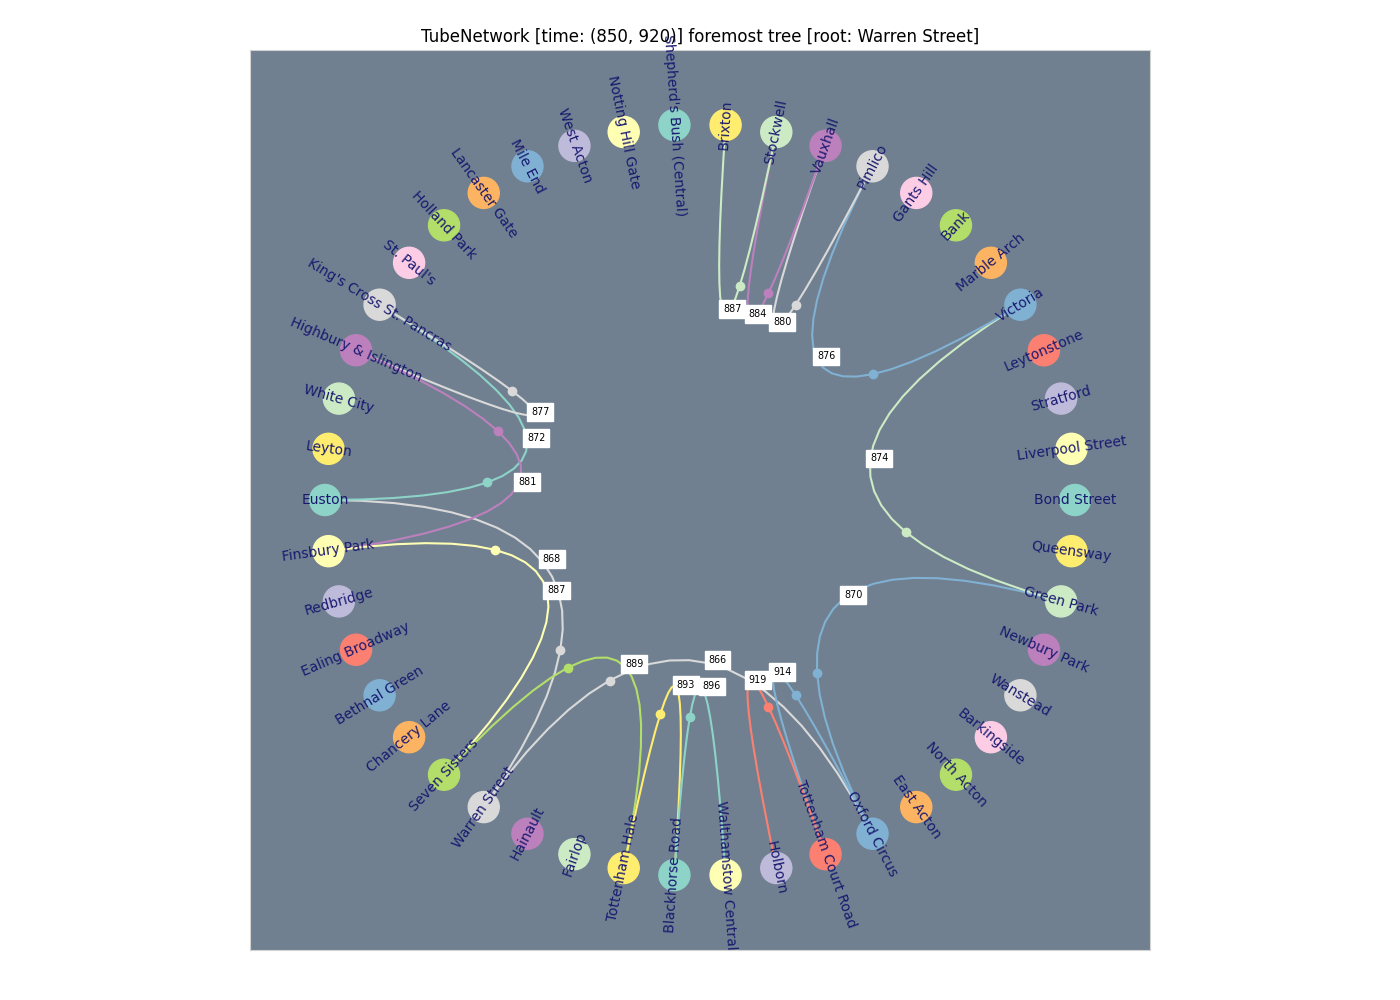
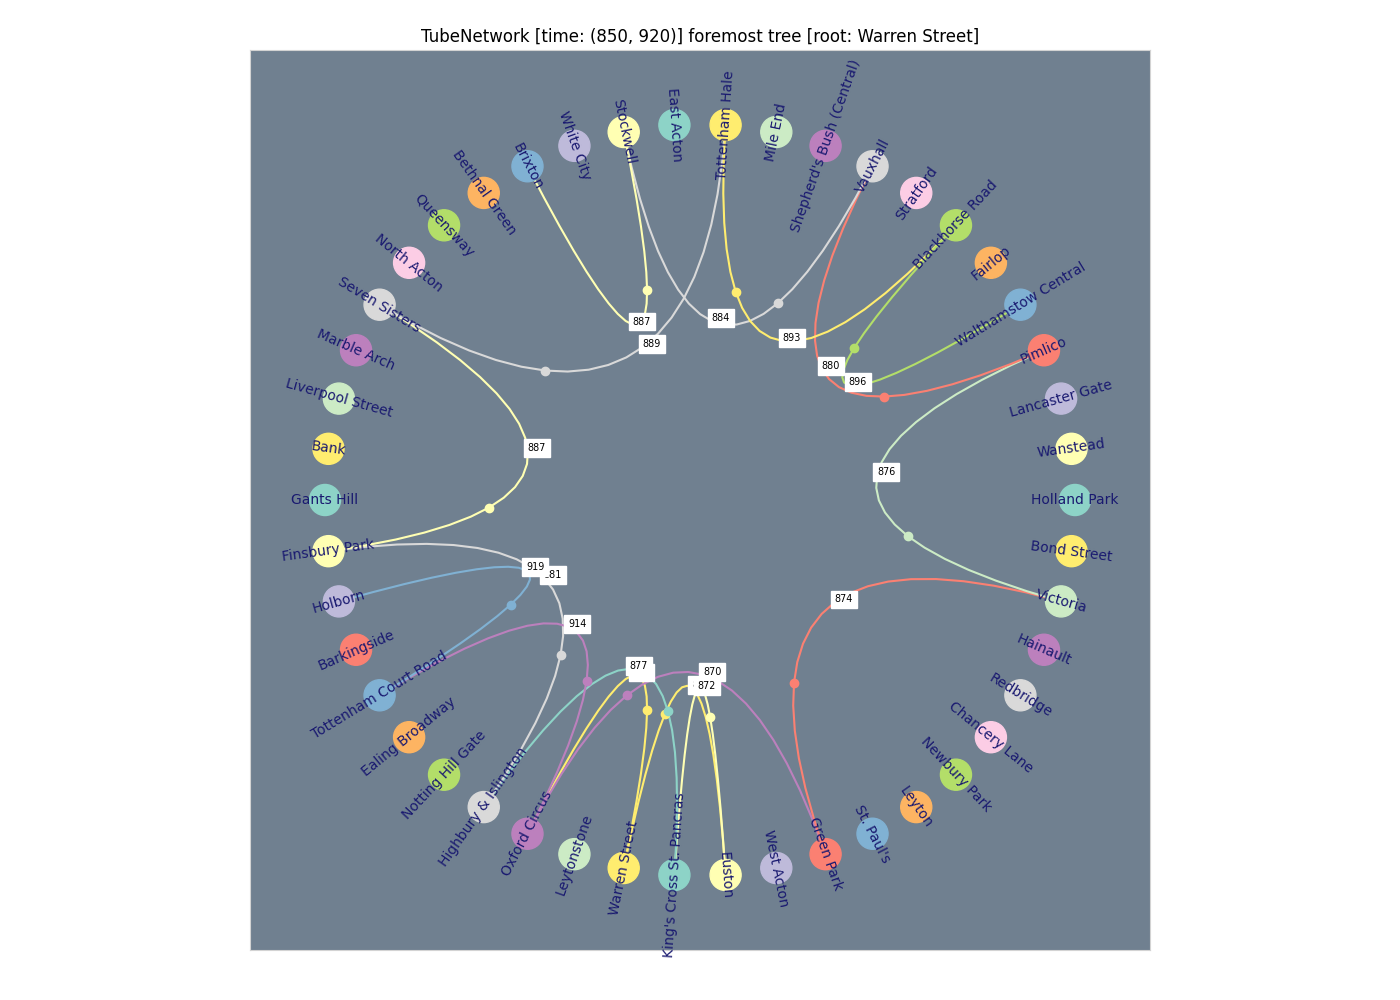
added node reachability

diff --git a/OVERTIME/plots/slice.py b/OVERTIME/plots/slice.py
@@ -59,15 +59,14 @@ class Slice(Plot):
 
     def cleanup(self):
         plt.subplots_adjust(left=0.25, bottom=0.15, right=0.95, top=0.95, wspace=0, hspace=0)
-        ax = self.axes
-        times = list(set([edge.x for edge in self.edges]))
-        self.draw_xticks(ax, times)
-        edge_ticks = [y for y in range(0, len(self.labels))]
-        self.draw_yticks(ax, edge_ticks)
-        self.draw_grid(ax)
         self.figure.set_size_inches(32, 16)
-        for spine in ['top', 'bottom', 'right', 'left']:
-            ax.spines[spine].set_color('lightgrey')
+        times = list(set([edge.x for edge in self.edges]))
+        self.draw_xticks(self.axes, times)
+        edge_ticks = [y for y in range(0, len(self.labels))]
+        self.draw_yticks(self.axes, edge_ticks)
+        self.draw_grid(self.axes)
+        self.style_axis(self.axes)
+
         if self.has_slider:
             self.draw_sliders(times, edge_ticks, 79, 39)
         if not self.shown:
@@ -89,8 +88,13 @@ class Slice(Plot):
 
     def draw_grid(self, ax):
         ax.grid(color='lightgrey', linestyle='-', linewidth=0.1)
-        ax.set_facecolor('slategrey')
 
+
+    def style_axis(self, ax):
+        ax.set_facecolor('slategrey')
+        for spine in ['top', 'bottom', 'right', 'left']:
+            ax.spines[spine].set_color('lightgrey')
+    
 
     def draw_sliders(self, xticks, yticks, xstep, ystep):
         flag = False
@@ -118,7 +122,7 @@ class Slice(Plot):
                 self.axes.set(ylim=(pos, ytick_max))
                 self.figure.canvas.draw_idle()
             ypos.on_changed(updatey)
-            updatex((yticks[0]-1, ystep))
+            updatey((yticks[0]-1, ystep))
             self.figure.canvas.mpl_connect('resize_event', updatey)
             flag = True
 

diff --git a/OVERTIME/plots/circle.py b/OVERTIME/plots/circle.py
@@ -147,15 +147,30 @@ class Circle(Plot):
 
     def cleanup(self):
         plt.subplots_adjust(left=0.05, bottom=0.05, right=0.95, top=0.95, wspace=0, hspace=0)
-        ax = self.axes
-        ax.set_yticklabels([])
+        self.remove_xticks(self.axes)
+        self.remove_yticks(self.axes)
+        self.set_aspect(self.axes)
+        self.style_axis(self.axes)
+
+
+    def remove_xticks(self, ax):
         ax.set_xticklabels([])
-        ax.set_yticks([])
         ax.set_xticks([])
+
+
+    def remove_yticks(self, ax):
+        ax.set_yticklabels([])
+        ax.set_yticks([])
+
+
+    def set_aspect(self, ax):
         x0, x1 = ax.get_xlim()
         y0, y1 = ax.get_ylim()
         ax.set_aspect((x1 - x0) / (y1 - y0))
         ax.margins(0.1, 0.1)
+
+
+    def style_axis(self, ax):
         ax.set_facecolor('slategrey')
         for spine in ['top', 'bottom', 'right', 'left']:
             ax.spines[spine].set_color('lightgrey')

diff --git a/OVERTIME/algorithms/foremost.py b/OVERTIME/algorithms/foremost.py
@@ -7,9 +7,14 @@ def CalculateForemostTree(graph, root):
     """
         A method which returns the foremost tree for a specified root.
     """
+    if not graph.nodes.exists(root):
+        print('Error: ' + root + ' does not exist in this graph.')
+        return None
+
     timespan = graph.edges.timespan()
     start = timespan[0]
     end = timespan[-1]
+
     tree = ForemostTree(graph.label, root, start)
 
     for node in graph.nodes.set:

diff --git a/OVERTIME/algorithms/reachability.py b/OVERTIME/algorithms/reachability.py
@@ -1,0 +1,15 @@
+
+from algorithms.foremost import CalculateForemostTree
+
+
+
+def CalculateNodeReachability(graph, root):
+    """
+        A method which returns the reachability (number) if a root in the graph.
+    """
+    if not graph.nodes.exists(root):
+        print('Error: ' + root + ' does not exist in this graph.')
+        return None
+
+    tree = CalculateForemostTree(graph, root)
+    return tree.nodes.get_reachable().count()

diff --git a/OVERTIME/components/nodes.py b/OVERTIME/components/nodes.py
@@ -1,4 +1,8 @@
 
+import math
+
+
+
 class Node:
     """
         A class which represents a node on a graph.
@@ -147,3 +151,11 @@ class ForemostNodes(Nodes):
         for node in alist:
             subset.set.add(node)
         return subset
+
+
+    def times(self):
+        return [node.time for node in self.set]
+
+
+    def get_reachable(self):
+        return self.subset([node for node in self.set if not math.isinf(node.time)])

diff --git a/OVERTIME/plots/plotter.py b/OVERTIME/plots/plotter.py
@@ -21,7 +21,7 @@ class Plotter:
         plot_object = self.plot(graph, figure, axes, graph.label, ordered=ordered, slider=slider)    
         if save:
             self.save(figure, plot.name, graph.label)
-        elif not plot_object.shown:
+        if not plot_object.shown:
             figure.show()
 
 
